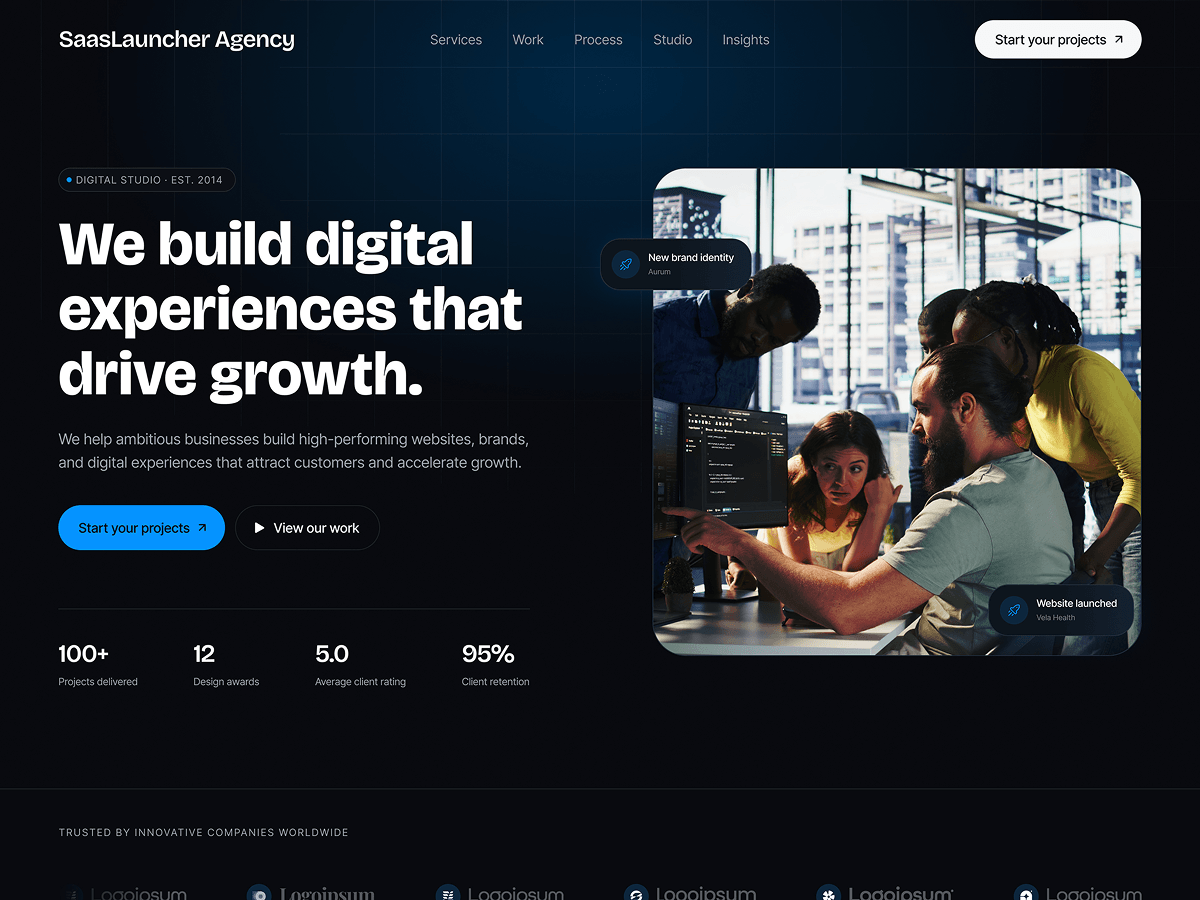
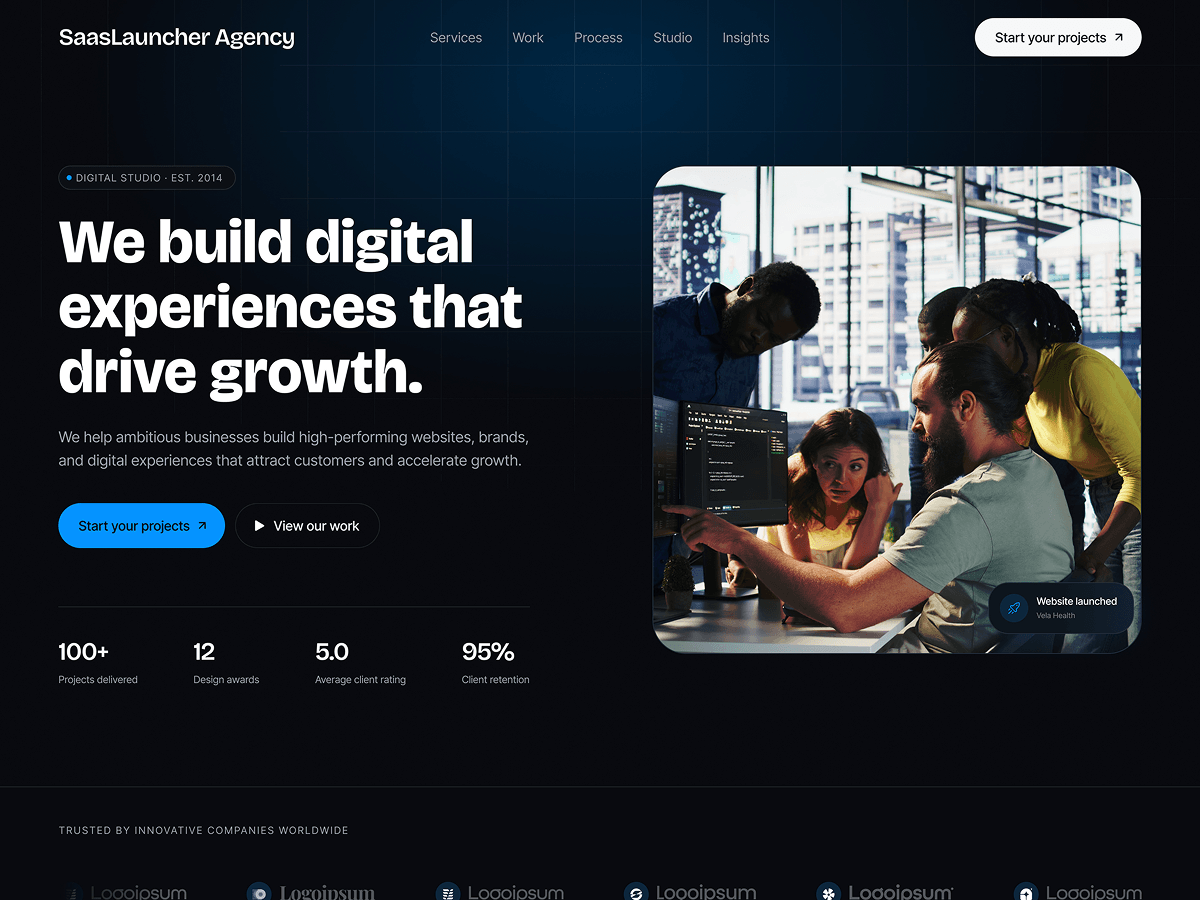
FIX: screenshot why-choose-us-img footer-nav

diff --git a/patterns/why-choose-us.php b/patterns/why-choose-us.php
@@ -52,7 +52,7 @@ $saaslauncher_agency_url        = trailingslashit( get_stylesheet_directory_uri(
 <div class="wp-block-column has-border-color has-background-alt-background-color has-background" style="border-color:#35393D;border-style:solid;border-width:1px;border-top-left-radius:34px;border-top-right-radius:34px;border-bottom-left-radius:34px;border-bottom-right-radius:34px;padding-top:0;padding-right:0;padding-bottom:0;padding-left:0"><!-- wp:columns {"style":{"spacing":{"blockGap":{"top":"0","left":"0"}}}} -->
 <div class="wp-block-columns"><!-- wp:column {"style":{"border":{"top":{"width":"0px","style":"none"},"right":{"color":"var:preset|color|border-color","style":"solid","width":"1px"},"bottom":{"color":"var:preset|color|border-color","width":"1px"},"left":{"width":"0px","style":"none"}},"spacing":{"padding":{"right":"var:preset|spacing|60","left":"var:preset|spacing|60","top":"var:preset|spacing|60","bottom":"var:preset|spacing|60"}}},"layout":{"type":"constrained","contentSize":"285px"}} -->
 <div class="wp-block-column" style="border-top-style:none;border-top-width:0px;border-right-color:var(--wp--preset--color--border-color);border-right-style:solid;border-right-width:1px;border-bottom-color:var(--wp--preset--color--border-color);border-bottom-width:1px;border-left-style:none;border-left-width:0px;padding-top:var(--wp--preset--spacing--60);padding-right:var(--wp--preset--spacing--60);padding-bottom:var(--wp--preset--spacing--60);padding-left:var(--wp--preset--spacing--60)"><!-- wp:image {"id":369,"width":"45px","aspectRatio":"1","scale":"cover","sizeSlug":"full","linkDestination":"none"} -->
-<figure class="wp-block-image size-full is-resized"><img src="<?php echo esc_url($saaslauncher_agency_images[0]);?>" alt="" class="wp-image-369" style="aspect-ratio:1;object-fit:cover;width:45px"/></figure>
+<figure class="wp-block-image size-full is-resized"><img src="<?php echo esc_url( $saaslauncher_agency_images[0] ); ?>" alt="" class="wp-image-369" style="aspect-ratio:1;object-fit:cover;width:45px"/></figure>
 <!-- /wp:image -->
 
 <!-- wp:heading {"level":4} -->
@@ -66,7 +66,7 @@ $saaslauncher_agency_url        = trailingslashit( get_stylesheet_directory_uri(
 
 <!-- wp:column {"style":{"border":{"top":{"width":"0px","style":"none"},"right":{"width":"0px","style":"none"},"bottom":{"color":"var:preset|color|border-color","width":"1px"},"left":{"width":"0px","style":"none"}},"spacing":{"padding":{"right":"var:preset|spacing|60","left":"var:preset|spacing|60","top":"var:preset|spacing|60","bottom":"var:preset|spacing|60"}}},"layout":{"type":"constrained","contentSize":"285px"}} -->
 <div class="wp-block-column" style="border-top-style:none;border-top-width:0px;border-right-style:none;border-right-width:0px;border-bottom-color:var(--wp--preset--color--border-color);border-bottom-width:1px;border-left-style:none;border-left-width:0px;padding-top:var(--wp--preset--spacing--60);padding-right:var(--wp--preset--spacing--60);padding-bottom:var(--wp--preset--spacing--60);padding-left:var(--wp--preset--spacing--60)"><!-- wp:image {"id":381,"width":"45px","aspectRatio":"1","scale":"cover","sizeSlug":"full","linkDestination":"none"} -->
-<figure class="wp-block-image size-full is-resized"><img src="<?php echo esc_url($saaslauncher_agency_images[1]);?>.png" alt="" class="wp-image-381" style="aspect-ratio:1;object-fit:cover;width:45px"/></figure>
+<figure class="wp-block-image size-full is-resized"><img src="<?php echo esc_url( $saaslauncher_agency_images[1] ); ?>" alt="" class="wp-image-381" style="aspect-ratio:1;object-fit:cover;width:45px"/></figure>
 <!-- /wp:image -->
 
 <!-- wp:heading {"level":4} -->
@@ -82,7 +82,7 @@ $saaslauncher_agency_url        = trailingslashit( get_stylesheet_directory_uri(
 <!-- wp:columns {"style":{"spacing":{"blockGap":{"top":"0","left":"0"},"margin":{"top":"0","bottom":"0"}}}} -->
 <div class="wp-block-columns" style="margin-top:0;margin-bottom:0"><!-- wp:column {"style":{"spacing":{"padding":{"right":"var:preset|spacing|60","left":"var:preset|spacing|60","top":"var:preset|spacing|60","bottom":"var:preset|spacing|60"}},"border":{"top":{"width":"0px","style":"none"},"right":{"color":"var:preset|color|border-color","style":"solid","width":"1px"},"bottom":{"width":"0px","style":"none"},"left":{"width":"0px","style":"none"}}},"layout":{"type":"constrained","contentSize":"285px"}} -->
 <div class="wp-block-column" style="border-top-style:none;border-top-width:0px;border-right-color:var(--wp--preset--color--border-color);border-right-style:solid;border-right-width:1px;border-bottom-style:none;border-bottom-width:0px;border-left-style:none;border-left-width:0px;padding-top:var(--wp--preset--spacing--60);padding-right:var(--wp--preset--spacing--60);padding-bottom:var(--wp--preset--spacing--60);padding-left:var(--wp--preset--spacing--60)"><!-- wp:image {"id":383,"width":"45px","aspectRatio":"1","scale":"cover","sizeSlug":"full","linkDestination":"none"} -->
-<figure class="wp-block-image size-full is-resized"><img src="<?php echo esc_url($saaslauncher_agency_images[2]);?>.png" alt="" class="wp-image-383" style="aspect-ratio:1;object-fit:cover;width:45px"/></figure>
+<figure class="wp-block-image size-full is-resized"><img src="<?php echo esc_url( $saaslauncher_agency_images[2] ); ?>" alt="" class="wp-image-383" style="aspect-ratio:1;object-fit:cover;width:45px"/></figure>
 <!-- /wp:image -->
 
 <!-- wp:heading {"level":4} -->
@@ -96,7 +96,7 @@ $saaslauncher_agency_url        = trailingslashit( get_stylesheet_directory_uri(
 
 <!-- wp:column {"style":{"spacing":{"padding":{"right":"var:preset|spacing|60","left":"var:preset|spacing|60","top":"var:preset|spacing|60","bottom":"var:preset|spacing|60"}}},"layout":{"type":"constrained","contentSize":"285px"}} -->
 <div class="wp-block-column" style="padding-top:var(--wp--preset--spacing--60);padding-right:var(--wp--preset--spacing--60);padding-bottom:var(--wp--preset--spacing--60);padding-left:var(--wp--preset--spacing--60)"><!-- wp:image {"id":384,"width":"45px","aspectRatio":"1","scale":"cover","sizeSlug":"full","linkDestination":"none"} -->
-<figure class="wp-block-image size-full is-resized"><img src="<?php echo esc_url($saaslauncher_agency_images[3]);?>-1.png" alt="" class="wp-image-384" style="aspect-ratio:1;object-fit:cover;width:45px"/></figure>
+<figure class="wp-block-image size-full is-resized"><img src="<?php echo esc_url( $saaslauncher_agency_images[3] ); ?>" alt="" class="wp-image-384" style="aspect-ratio:1;object-fit:cover;width:45px"/></figure>
 <!-- /wp:image -->
 
 <!-- wp:heading {"level":4} -->

diff --git a/patterns/footer-default.php b/patterns/footer-default.php
@@ -33,7 +33,11 @@
 <p style="margin-bottom:var(--wp--preset--spacing--40);text-transform:uppercase"><?php esc_html_e( 'Navigate', 'saaslauncher-agency' ); ?></p>
 <!-- /wp:paragraph -->
 
-<!-- wp:navigation {"ref":6,"overlayMenu":"never","style":{"spacing":{"blockGap":"var:preset|spacing|30"}},"layout":{"type":"flex","orientation":"vertical"}} /--></div>
+<!-- wp:navigation {"overlayMenu":"never","style":{"spacing":{"blockGap":"var:preset|spacing|30"}},"layout":{"type":"flex","orientation":"vertical"}} -->
+<!-- wp:home-link /-->
+<!-- wp:page-list /-->
+<!-- /wp:navigation -->
+</div>
 <!-- /wp:column -->
 
 <!-- wp:column -->
